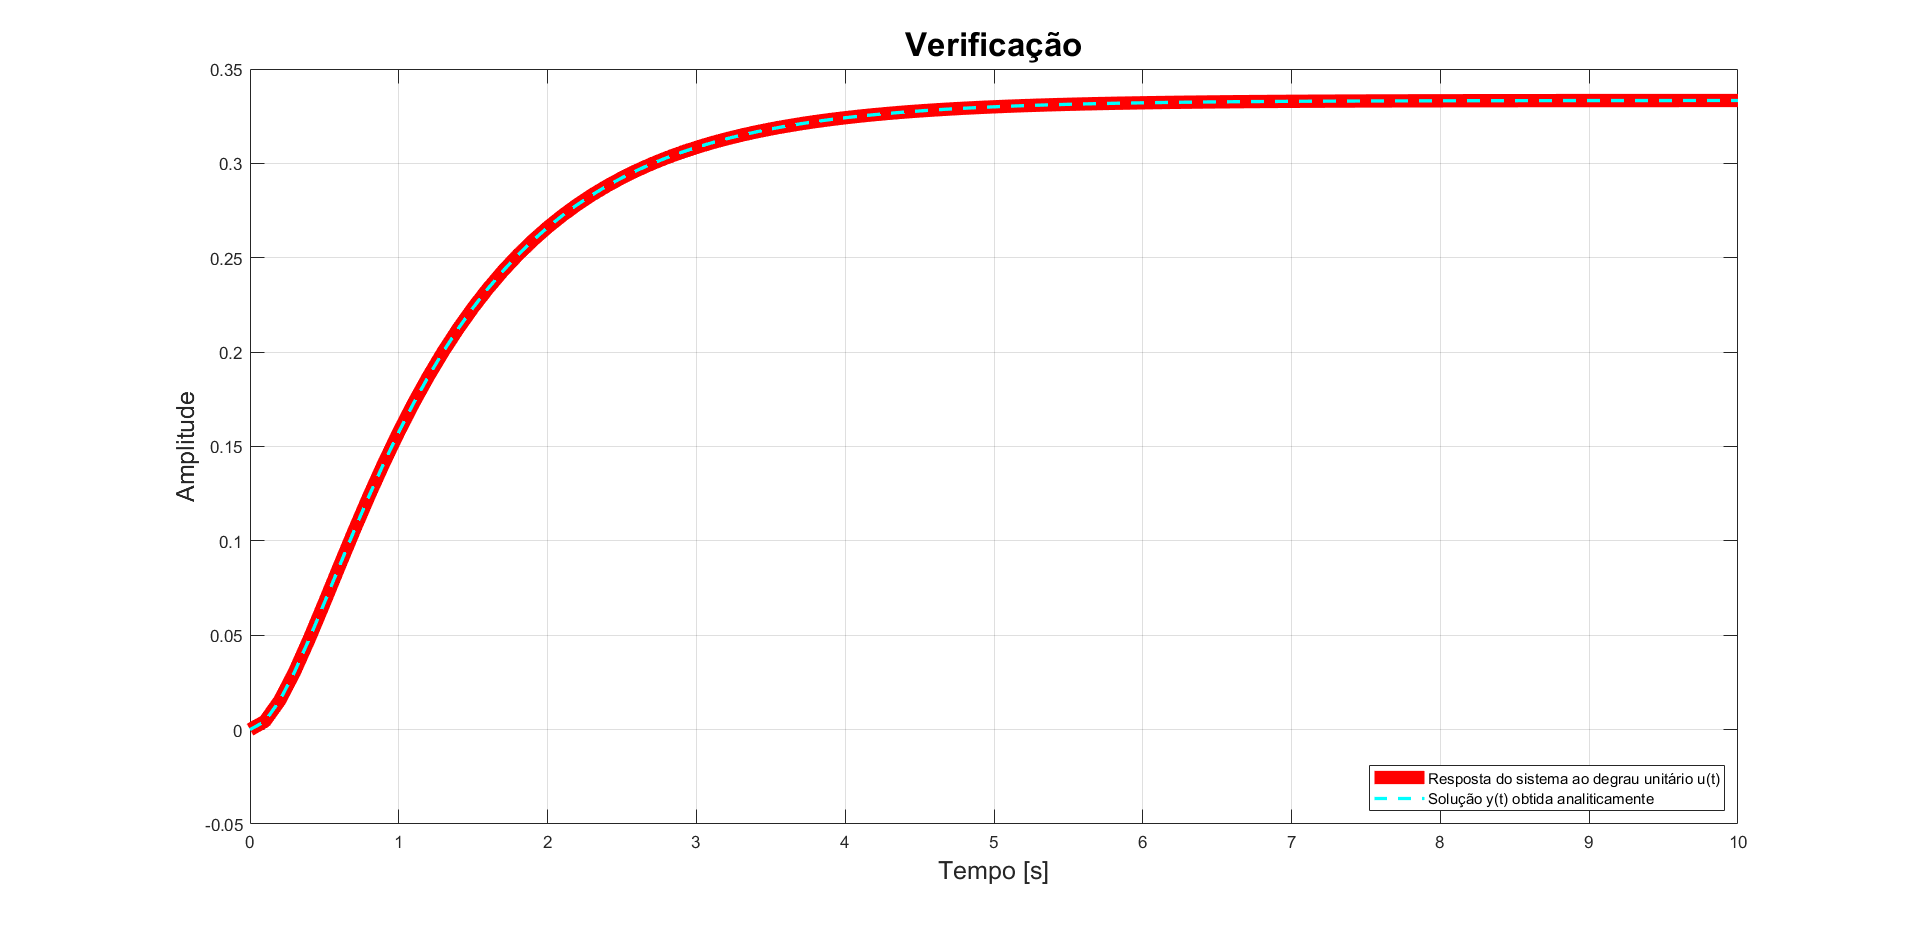
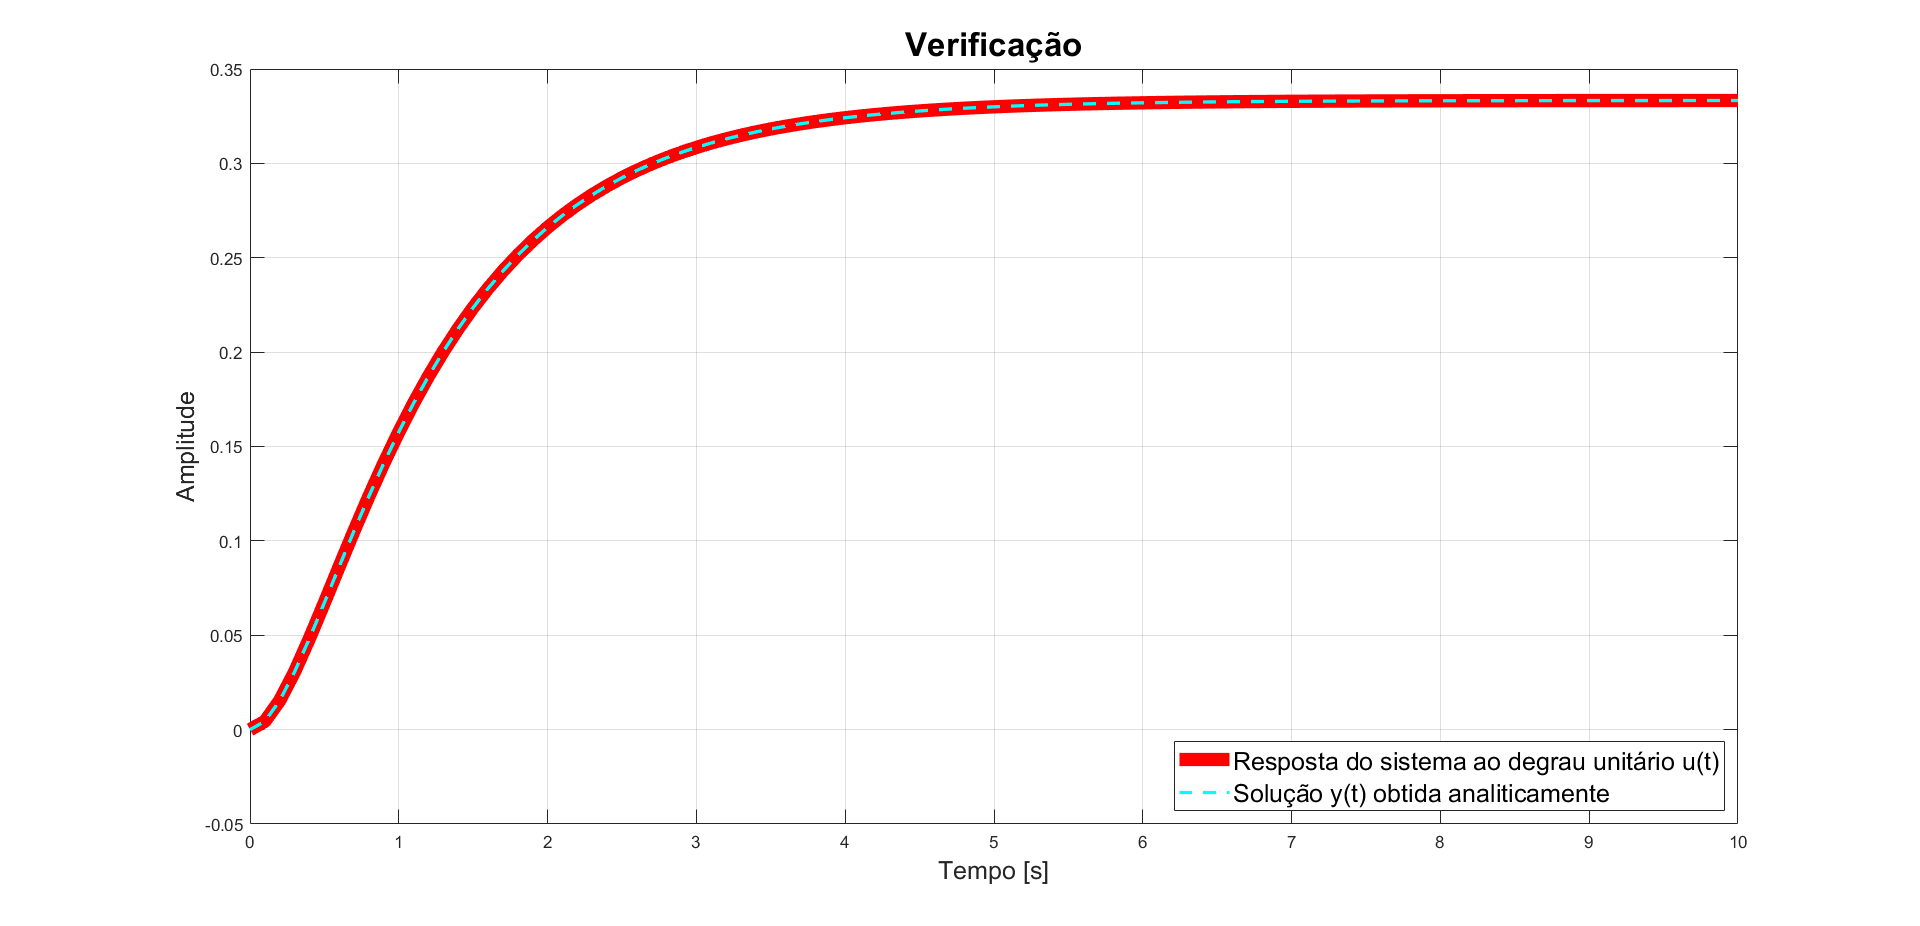
arrumei o tamanho das fontes

Changed region(s): [[0.5938, 0.7862, 0.9062, 0.8769]]

diff --git a/Lista_2_SCON_02_10/ex3.m b/Lista_2_SCON_02_10/ex3.m
@@ -23,9 +23,9 @@ plot(t, yt, '--', 'Color', 'c', 'LineWidth', 2)
 
 grid on;
 
-title('Verificação');
-xlabel('Tempo [s]');
-ylabel('Amplitude');
+title('Verificação','FontSize',20);
+xlabel('Tempo [s]', 'FontSize',15);
+ylabel('Amplitude','FontSize',15);
 legend('Resposta do sistema ao degrau unitário u(t)', ...
     'Solução y(t) obtida analiticamente', ...
-    'Location','southeast')
+    'Location','southeast', 'FontSize',15)
